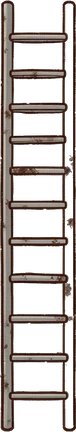
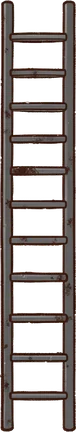
P75: The metro ladder's rails stay opaque
Its pale steel right rail was keyed away with the white backdrop, so the
sacks behind showed through. It's repainted in dark painted steel, and a
test checks every ladder's rails and rungs are opaque.

diff --git a/server/tests/papercraft/test_content.py b/server/tests/papercraft/test_content.py
@@ -1,5 +1,6 @@
 import json
 
+import numpy as np
 import pytest
 from PIL import Image
 
@@ -72,3 +73,24 @@ def test_every_lookup_names_a_piece() -> None:
     ]
 
     assert set(named) <= set(PIECES)
+
+
+LADDERS = [
+    MANIFEST_JSON["platforms"]["ladder"],
+    *(p["ladder"] for p in MANIFEST_JSON["platforms_below"].values() if "ladder" in p),
+]
+RAIL_M = 0.08
+RUNG_M = 0.3
+"""How wide the sketch draws each rail, and how far apart its rungs."""
+
+
+@pytest.mark.parametrize("key", LADDERS)
+def test_a_ladders_rails_and_rungs_are_opaque(key: str) -> None:
+    alpha = np.asarray(Image.open(CONTENT / PIECES[key]["file"]).convert("RGBA"))[..., 3]
+    width = alpha.shape[1]
+    across = np.median(alpha[:, width // 3 : 2 * width // 3], axis=1) >= 250
+    rungs = np.count_nonzero(np.diff(across.astype(int)) == 1)
+
+    for side in (alpha[:, : width // 4], alpha[:, -(width // 4) :]):
+        assert (np.median(side, axis=0) >= 250).sum() >= RAIL_M * PPM / 2
+    assert rungs >= round(PIECES[key]["height"] / RUNG_M) - 1

diff --git a/server/simile/papercraft/catalogue.py b/server/simile/papercraft/catalogue.py
@@ -1325,7 +1325,8 @@ PLATFORMS: dict[str, Item] = {
 PLATFORMS_BELOW: dict[str, dict[str, Item]] = {
     "metro": {
         "ladder": Item(
-            "a tall old steel maintenance ladder of two flat steel rails and round steel rungs",
+            "a tall old maintenance ladder of dark gunmetal-grey painted steel: two flat rails and "
+            "round rungs",
             3.6,
             ref=TUNNELS,
             sketch="metro_ladder",
